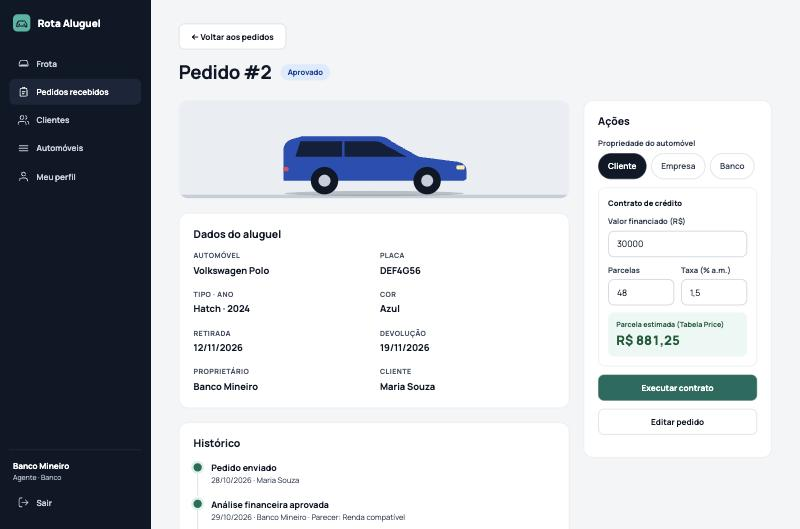
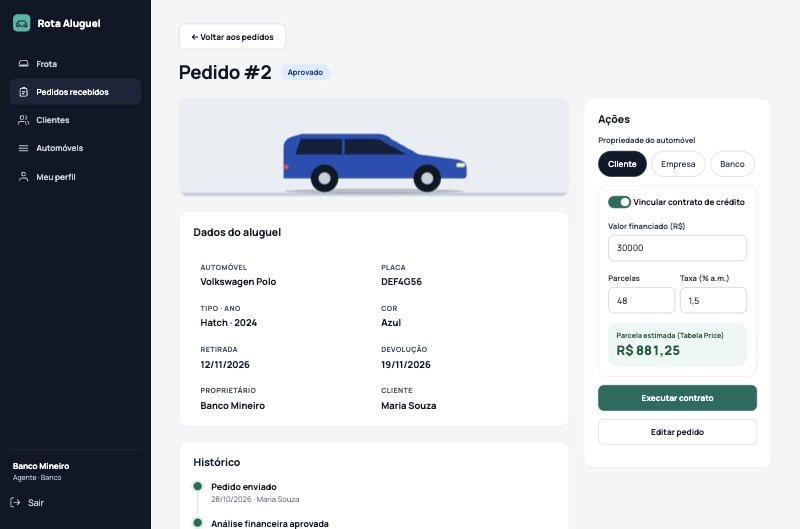
README, capturas de tela e roteiro da apresentação

diff --git a/README.md b/README.md
@@ -53,10 +53,11 @@ A interface segue o protótipo **Rota Aluguel**: barra lateral escura, cards com
 - 📝 **Pedidos**: escolher um carro livre no período, ver o resumo com a duração, editar enquanto "Em análise", cancelar e acompanhar o histórico.
 - 📊 **Painel de pedidos**: indicadores por status, filtro por status e tabela.
 - 💰 **Avaliação financeira**: o agente vê a renda declarada e aprova ou reprova com parecer obrigatório.
-- 📄 **Execução de contrato**: define a propriedade do automóvel (cliente, empresa ou banco). O banco informa o crédito e vê a parcela estimada pela Tabela Price.
+- 📄 **Execução de contrato**: define a propriedade do automóvel (cliente, empresa ou banco). O banco pode vincular um contrato de crédito (opcional) e vê a parcela estimada pela Tabela Price.
 - 👤 **CRUD de clientes** (agente) e **perfil do cliente** com a carteira do locatário: progresso do perfil, renda, pedidos, contratos e dias na estrada.
 - 🏦 **Perfil do agente** com a credencial: frota própria, pedidos, contratos e clientes.
 - 🚗 **CRUD de automóveis** com prévia ao vivo da carroceria e da cor.
+- 📱 **Responsivo**: no celular a barra lateral vira um menu deslizante (Offcanvas).
 
 ### Fluxo de status do pedido
 
@@ -69,7 +70,9 @@ A interface segue o protótipo **Rota Aluguel**: barra lateral escura, cards com
 | Camada | Tecnologia |
 |--------|-----------|
 | Estrutura e lógica | HTML5, CSS3, JavaScript (módulos ES) |
-| Interface | Bootstrap 5.3.3 (grade, utilitários, modal) + tema próprio `css/rota.css` |
+| Interface | Bootstrap 5.3.3 com tema próprio (`css/rota.css`, que só ajusta as variáveis `--bs-*`) |
+| Componentes Bootstrap usados | `btn` e botões de alternância, `card`, `form-control`, `form-select`, `form-label`, `form-switch`, `table`, `badge`, `alert`, `nav-pills`, grid `row`/`col`, Toast, Modal, Collapse e Offcanvas |
+| Modelagem | PlantUML (v4) e Mermaid (v1–v3) |
 | Tipografia | Manrope (Google Fonts) |
 | API e persistência | JSON Server 0.17.4 (API REST simulada a partir do `db.json`) |
 | Comunicação | Fetch API |
@@ -101,17 +104,28 @@ flowchart LR
 
 ### 📐 Modelagem (UML)
 
-Todas as versões dos modelos estão no repositório, em Mermaid (renderizam direto no GitHub):
+Todas as versões dos modelos estão no repositório. A versão atual é a **v4**, em notação UML padrão (PlantUML). As versões v1–v3, em Mermaid, ficaram para mostrar a evolução.
 
-| Modelo | v1 (inicial) | v2 (alinhado ao código) | v3 (protótipo Rota Aluguel) |
-|--------|--------------|-------------------------|-----------------------------|
-| Casos de uso | [v1](docs/v1/01-casos-de-uso.md) | sem mudanças | [v3](docs/v3/01-casos-de-uso.md) |
-| Histórias do usuário | [v1](docs/v1/02-historias-de-usuario.md) | sem mudanças | [v3](docs/v3/02-historias-de-usuario.md) |
-| Classes e estados | [v1](docs/v1/03-diagrama-de-classes.md) | [v2](docs/v2/03-diagrama-de-classes.md) | [v3](docs/v3/03-diagrama-de-classes.md) |
-| Pacotes (visão lógica) | [v1](docs/v1/04-diagrama-de-pacotes.md) | [v2](docs/v2/04-diagrama-de-pacotes.md) | [v3](docs/v3/04-diagrama-de-pacotes.md) |
-| Componentes | [v1](docs/v1/05-diagrama-de-componentes.md) | [v2](docs/v2/05-diagrama-de-componentes.md) | [v3](docs/v3/05-diagrama-de-componentes.md) |
+| Modelo | v1 (inicial) | v2 (alinhado ao código) | v3 (protótipo Rota Aluguel) | **v4 (UML, atual)** |
+|--------|--------------|-------------------------|-----------------------------|---------------------|
+| Casos de uso | [v1](docs/v1/01-casos-de-uso.md) | sem mudanças | [v3](docs/v3/01-casos-de-uso.md) | [**v4**](docs/v4/README.md#casos-de-uso) |
+| Histórias do usuário | [v1](docs/v1/02-historias-de-usuario.md) | sem mudanças | [v3](docs/v3/02-historias-de-usuario.md) | [**v4**](docs/v4/02-historias-de-usuario.md) |
+| Classes | [v1](docs/v1/03-diagrama-de-classes.md) | [v2](docs/v2/03-diagrama-de-classes.md) | [v3](docs/v3/03-diagrama-de-classes.md) | [**v4**](docs/v4/README.md#classes) |
+| Pacotes (visão lógica) | [v1](docs/v1/04-diagrama-de-pacotes.md) | [v2](docs/v2/04-diagrama-de-pacotes.md) | [v3](docs/v3/04-diagrama-de-pacotes.md) | [**v4**](docs/v4/README.md#pacotes) |
+| Componentes | [v1](docs/v1/05-diagrama-de-componentes.md) | [v2](docs/v2/05-diagrama-de-componentes.md) | [v3](docs/v3/05-diagrama-de-componentes.md) | [**v4**](docs/v4/README.md#componentes) |
+| Estados do pedido | — | [v2](docs/v2/03-diagrama-de-classes.md) | [v3](docs/v3/03-diagrama-de-classes.md) | [**v4**](docs/v4/README.md#estados-do-pedido) |
+| Sequência (pedido → contrato) | — | — | — | [**v4**](docs/v4/README.md#sequência) |
+
+<table>
+  <tr>
+    <td align="center"><b>Casos de uso (v4)</b><br><img src="docs/v4/casos-de-uso.svg" alt="Diagrama de casos de uso em UML" width="420"></td>
+    <td align="center"><b>Componentes (v4)</b><br><img src="docs/v4/componentes.svg" alt="Diagrama de componentes em UML" width="420"></td>
+  </tr>
+</table>
 
 📋 **Comparação modelo × código e justificativa de cada mudança:** [docs/CHANGELOG-modelos.md](docs/CHANGELOG-modelos.md)
+
+🎤 **Roteiro da apresentação final:** [docs/apresentacao.md](docs/apresentacao.md)
 
 ---
 
@@ -147,8 +161,11 @@ Abra **http://localhost:3000** no navegador. A API fica em `http://localhost:300
 ├── db.json                      # "banco de dados" do JSON Server (dados iniciais)
 ├── package.json
 ├── docs/
-│   ├── v1/  v2/  v3/            # versões dos modelos UML
-│   └── CHANGELOG-modelos.md     # o que mudou entre as versões e por quê
+│   ├── v1/  v2/  v3/            # versões anteriores dos modelos (Mermaid)
+│   ├── v4/                      # modelos atuais em UML: fontes .puml + imagens .svg/.png
+│   ├── screenshots/             # capturas de tela usadas neste README
+│   ├── CHANGELOG-modelos.md     # o que mudou entre as versões e por quê
+│   └── apresentacao.md          # roteiro da apresentação final
 └── src/
     ├── login.html, cadastro.html, frota.html, pedidos.html, pedido-form.html,
     │   pedido-detalhe.html, clientes.html, cliente-form.html, perfil-agente.html,
@@ -177,10 +194,10 @@ Abra **http://localhost:3000** no navegador. A API fica em `http://localhost:300
 | <img src="docs/screenshots/03-novo-pedido.jpg" alt="Novo pedido com carros livres no período e resumo" width="400"> | <img src="docs/screenshots/04-perfil-cliente.jpg" alt="Perfil do cliente com a carteira do locatário" width="400"> |
 | **Pedidos recebidos (agente)** | **Avaliação financeira** |
 | <img src="docs/screenshots/05-pedidos-recebidos.jpg" alt="Painel de pedidos com indicadores e filtro por status" width="400"> | <img src="docs/screenshots/06-avaliacao-financeira.jpg" alt="Detalhe do pedido com renda do cliente e parecer" width="400"> |
-| **Executar contrato com crédito** | **Credencial de agente** |
-| <img src="docs/screenshots/07-executar-contrato.jpg" alt="Execução de contrato com propriedade do automóvel e crédito pela Tabela Price" width="400"> | <img src="docs/screenshots/08-perfil-agente.jpg" alt="Perfil do agente com a credencial" width="400"> |
-| **Automóvel com prévia** | |
-| <img src="docs/screenshots/09-automovel.jpg" alt="Formulário de automóvel com carroceria, cor e prévia" width="400"> | |
+| **Executar contrato (crédito opcional)** | **Credencial de agente** |
+| <img src="docs/screenshots/07-executar-contrato.jpg" alt="Execução de contrato com propriedade do automóvel e chave de crédito opcional pela Tabela Price" width="400"> | <img src="docs/screenshots/08-perfil-agente.jpg" alt="Perfil do agente com a credencial" width="400"> |
+| **Automóvel com prévia** | **Menu no celular (Offcanvas)** |
+| <img src="docs/screenshots/09-automovel.jpg" alt="Formulário de automóvel com carroceria, cor e prévia" width="400"> | <img src="docs/screenshots/10-menu-celular.jpg" alt="Menu lateral aberto como Offcanvas na tela do celular" width="180"> |
 
 ### Contas de teste
 
@@ -197,7 +214,7 @@ Usuários de teste (senha de todos: `123456`). Os três primeiros aparecem como 
 
 1. Entre como **Cliente** → **Frota** → "Alugar este carro" num carro livre → ajuste as datas → **Enviar pedido**.
 2. Saia e entre como **Banco** → **Pedidos recebidos** → **Ver detalhes** → escreva o parecer → **Aprovar análise financeira**.
-3. Em **Executar contrato**, escolha a propriedade do automóvel, ajuste o crédito e confirme.
+3. Em **Executar contrato**, escolha a propriedade do automóvel, mantenha ou desligue o crédito e confirme.
 4. Volte ao cliente: o pedido aparece como "Contratado" e a carteira do locatário soma o contrato.
 
 ---
@@ -212,13 +229,16 @@ Os testes foram manuais, com o app rodando no navegador e o JSON Server ativo. F
 - **Fluxo de status:** avaliar sem parecer, contratar sem aprovação, cancelar pedido contratado e editar pedido contratado são bloqueados.
 - **Integridade:** não exclui cliente com pedido ativo nem automóvel com pedidos; a exclusão de cliente remove também o login.
 - **Cálculo:** R$ 30.000,00 em 48x a 1,5% a.m. = R$ 881,25; em 24x = R$ 1.497,72.
-- **Layout:** 1360×900 (tamanho do protótipo) e celular (375 px), sem rolagem horizontal.
+- **Crédito opcional:** contrato executado por banco com a chave de crédito desligada fica "Sem contrato de crédito".
+- **Senhas:** login com senha errada é recusado; o cadastro grava só o hash (64 caracteres), sem o campo de senha.
+- **Layout:** 1360×900 (tamanho do protótipo) e celular (375 px) sem rolagem horizontal; no celular o menu abre e fecha como Offcanvas.
+- **Diagramas:** os 14 diagramas Mermaid (v1–v3) passam no analisador do Mermaid; os 6 diagramas PlantUML (v4) são gerados sem erros.
 
 ---
 
 ## ⚠ Decisões e Limitações
 
-- **Autenticação simulada:** as senhas ficam em texto puro no `db.json` e a sessão no `sessionStorage`. Isso é aceitável apenas porque o JSON Server é uma API simulada para fins acadêmicos.
+- **Autenticação simulada:** o `db.json` guarda só o hash SHA-256 da senha, calculado no navegador (Web Crypto), e a sessão fica no `sessionStorage`. Sem servidor de verdade não há sal nem tokens, então isso serve para a API simulada, não para produção.
 - **JSON Server 0.17:**
   - O `_expand=automovel` não funciona, porque a biblioteca de plural gera `automovels`. Por isso o automóvel é anexado ao pedido no código.
   - Os campos `...Id` nunca são gravados como `null`, porque isso quebra os `DELETE`.
@@ -235,6 +255,7 @@ Os testes foram manuais, com o app rodando no navegador e o JSON Server ativo. F
 - [JSON Server](https://github.com/typicode/json-server/tree/v0.17.4)
 - [Fetch API (MDN)](https://developer.mozilla.org/pt-BR/docs/Web/API/Fetch_API)
 - [Diagrama de Pacotes](https://www.uml-diagrams.org/package-diagrams.html)
+- [PlantUML](https://plantuml.com/pt/)
 
 ---
 

diff --git a/docs/apresentacao.md b/docs/apresentacao.md
@@ -1,0 +1,65 @@
+# Roteiro da apresentação final (~10 minutos)
+
+O enunciado pede: apresentar o protótipo, **comparar com os modelos descritos inicialmente** e mostrar **as modificações feitas** para o software funcionar. Este roteiro segue essa ordem.
+
+---
+
+## 1. Abertura (1 min)
+
+- O problema: aluguel de carros pela Internet, com **clientes** que pedem e **agentes** (empresas e bancos) que avaliam e fecham contrato.
+- Stack: HTML5, CSS3, JavaScript, **Bootstrap 5** e **JSON Server** consumido via **Fetch API**.
+- Os dois subsistemas do enunciado:
+  - **construção dinâmica das páginas:** `pages/*.js`, `ui.js`, `carros.js`;
+  - **gestão de pedidos e contratos:** `servicos.js`, `validators.js`, `auth.js`, `api.js`.
+
+## 2. O que foi modelado no início, a v1 (1 min)
+
+Mostrar [`docs/v1/`](v1/):
+- casos de uso, histórias do usuário (HU01–HU13), classes, pacotes e componentes;
+- frase-chave: *"A v1 foi a nossa leitura do enunciado antes de escrever código."*
+
+## 3. Demonstração ao vivo (4 min)
+
+Antes, rodar `npm start` e abrir http://localhost:3000. Para começar com dados limpos, restaurar o `db.json` com `git checkout db.json`.
+
+1. **Login → Cliente** (conta de demonstração). Mostrar a **Frota** com selos Livre/Reservado.
+2. **Alugar este carro** → mudar as datas e mostrar que **só carros livres no período** aparecem → **Enviar pedido**. O status fica "Em análise".
+3. **Meu perfil:** mostrar a carteira do locatário e o máximo de **3 rendimentos**.
+4. **Sair → Banco**. Abrir **Pedidos recebidos** → **Ver detalhes**. Mostrar a renda declarada, tentar aprovar sem parecer (erro) e depois aprovar com parecer.
+5. **Executar contrato:** escolher a propriedade do automóvel (cliente, empresa ou banco). Mostrar a **chave de crédito**: ligada calcula a parcela pela Tabela Price; desligada, o contrato fica sem crédito. Confirmar.
+6. Mostrar o **histórico** do pedido e, rapidamente, o **CRUD de clientes** e o **cadastro de automóvel** com prévia.
+7. (Opcional) Diminuir a janela: o menu vira **Offcanvas** no celular.
+
+## 4. Modelo × código: o que mudou e por quê (3 min)
+
+Mostrar [`CHANGELOG-modelos.md`](CHANGELOG-modelos.md). Uma frase por versão:
+
+| Versão | O que mudou | Por quê |
+|--------|-------------|---------|
+| **v1 → v2** | `Avaliacao` e `EventoHistorico` passaram a ficar dentro do `Pedido`; `Usuario` ganhou `perfilId`; contrato com `tipoPropriedade` | Adequar o modelo ao JSON Server e registrar quem é dono do carro. |
+| **v2 → v3** | Carro com `forma` e `cor`; disponibilidade **por período**; cadastro rápido; novos casos "Consultar frota" e "Perfil do agente" | Aplicação do protótipo de interface. |
+| **v3 → v4** | Diagramas refeitos em **UML padrão (PlantUML)**; novo **diagrama de sequência**; senha só como hash; crédito opcional; interface montada com componentes do Bootstrap | Revisão crítica: notação UML correta e fidelidade ao enunciado. |
+
+Mostrar dois diagramas da v4 lado a lado com o código:
+- **Classes** ([`v4/classes.svg`](v4/classes.svg)) × `db.json`: os campos batem um a um.
+- **Pacotes** ([`v4/pacotes.svg`](v4/pacotes.svg)) × pasta `src/js`: cada pacote é um arquivo real.
+
+## 5. Problemas encontrados no caminho (30 s)
+
+- O `_expand=automovel` do JSON Server não funciona, porque ele procura a coleção `automovels`. Solução: juntar o automóvel no código.
+- Os `DELETE` davam erro 500 quando algum campo `...Id` valia `null`. Solução: não gravar o campo até ele ter valor.
+
+## 6. Encerramento (30 s)
+
+- Requisitos do enunciado: todos atendidos (checklist no README).
+- Repositório com **todas as versões** dos modelos (v1 → v4) e o código final.
+
+---
+
+## Perguntas prováveis
+
+- **"Onde estão os dois subsistemas?"** No diagrama de pacotes da v4: os pacotes «Subsistema», com os arquivos `ui.js`/`pages` de um lado e `servicos.js` do outro.
+- **"Como garante que o carro não é alugado duas vezes?"** A função `listarLivresNoPeriodo` em `servicos.js` descarta carros com pedido ativo cujas datas se sobrepõem. O mesmo teste roda de novo ao salvar o pedido.
+- **"Por que o banco pode contratar sem crédito?"** O enunciado diz que o aluguel *pode* estar associado a um crédito. Por isso o crédito é opcional e só bancos podem concedê-lo.
+- **"A senha está segura?"** O `db.json` guarda só o hash SHA-256. Numa aplicação real o hash seria feito no servidor, com sal e tokens, mas o JSON Server é só uma API simulada.
+- **"Onde o Bootstrap foi usado?"** Em botões, cards, formulários, tabelas, badges, alertas, navegação, grid, Toast, Modal, Collapse, `form-switch` e Offcanvas. O `rota.css` só ajusta as variáveis `--bs-*`.
